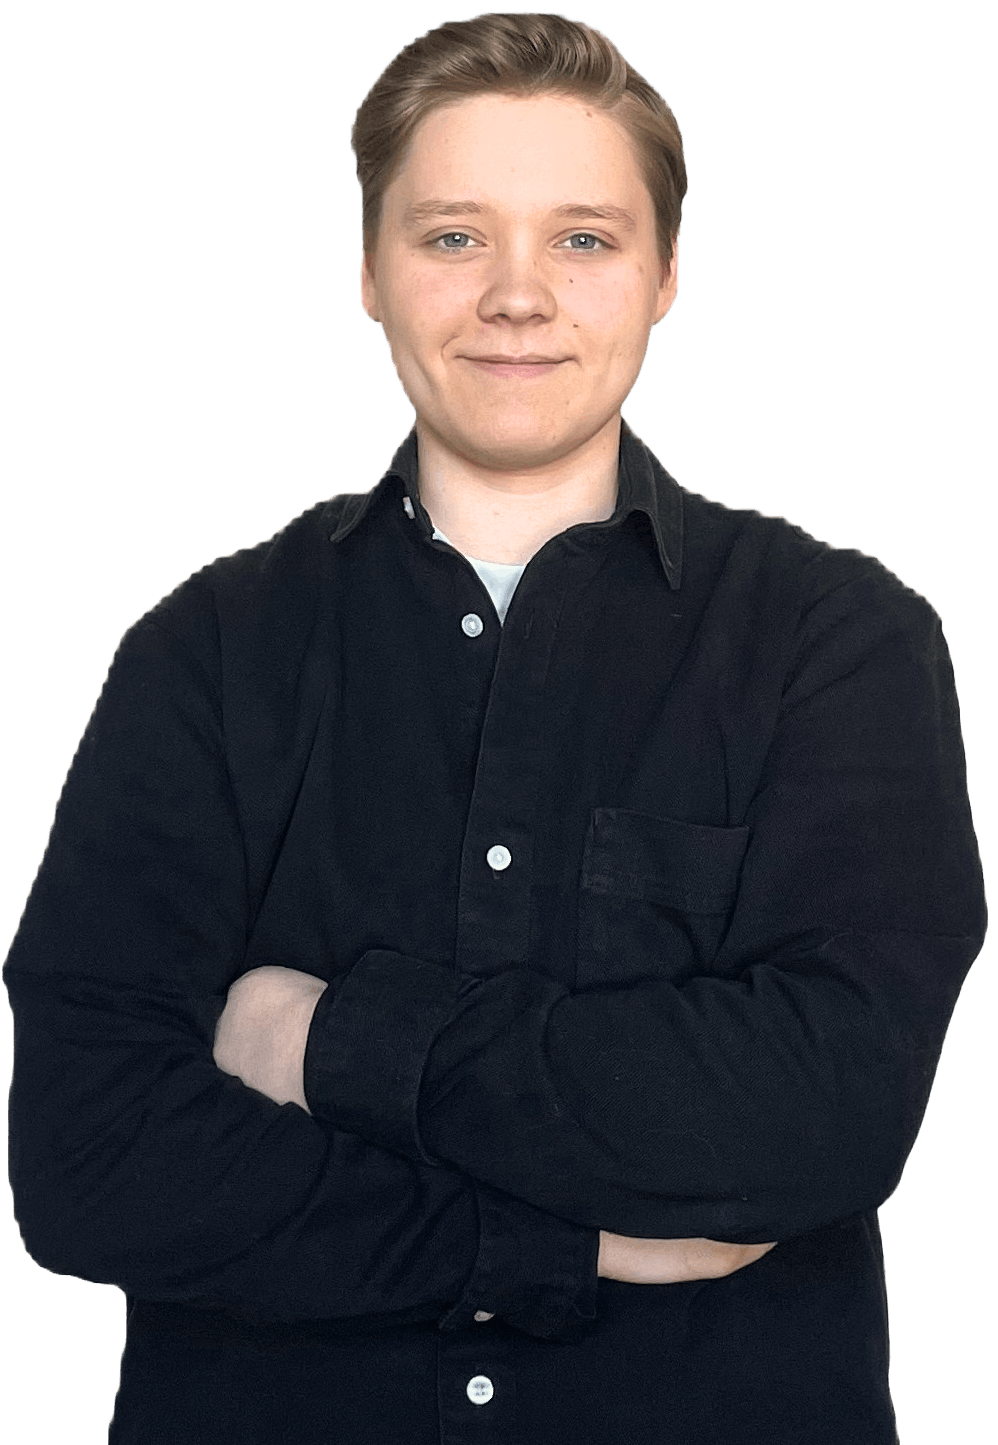
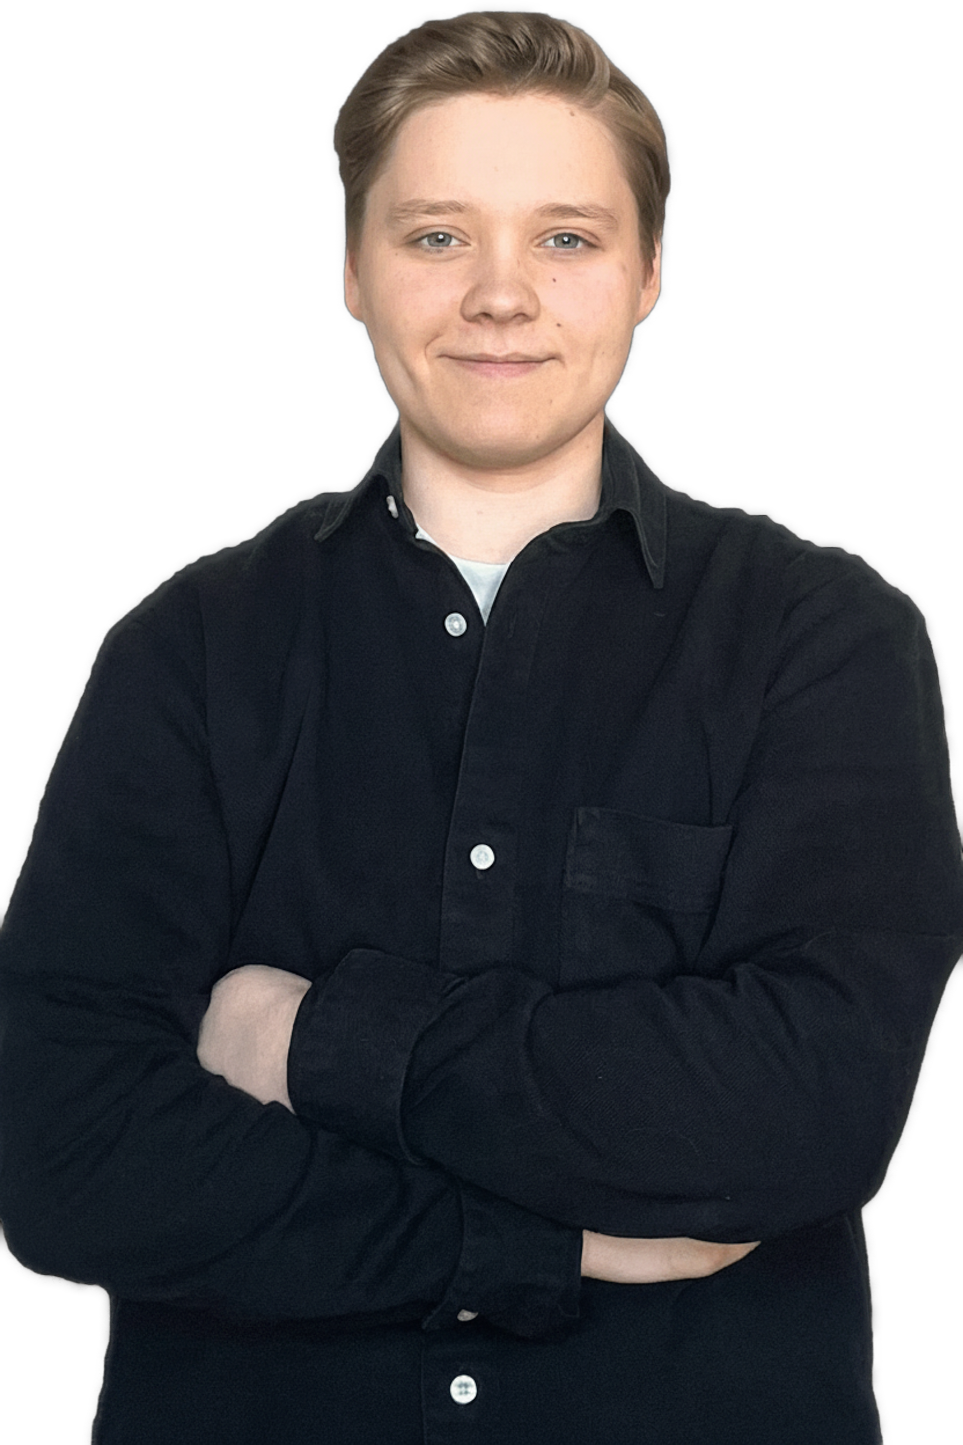
changing name of hero portrait, adding cursor default to "disabled" send button

diff --git a/index.html b/index.html
@@ -271,7 +271,7 @@
               </svg>
             </div>
             <img
-              src="./assets/img/hero-portrait_edited.png"
+              src="./assets/img/hero-portrait.png"
               alt="Portrait of Annika Egger"
               class="hero-portrait"
             />

diff --git a/styles/contact.css b/styles/contact.css
@@ -180,6 +180,7 @@ input:-webkit-autofill:focus {
 
 .send-msg-btn.disabled {
   background-color: rgba(182, 182, 182, 1);
+  cursor: default;
 }
 
 .send-msg-btn.disabled.waiting-for-response {
